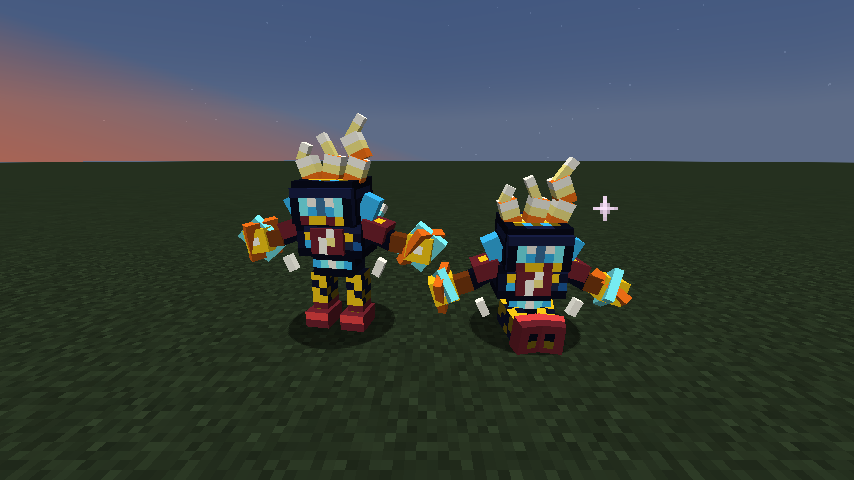
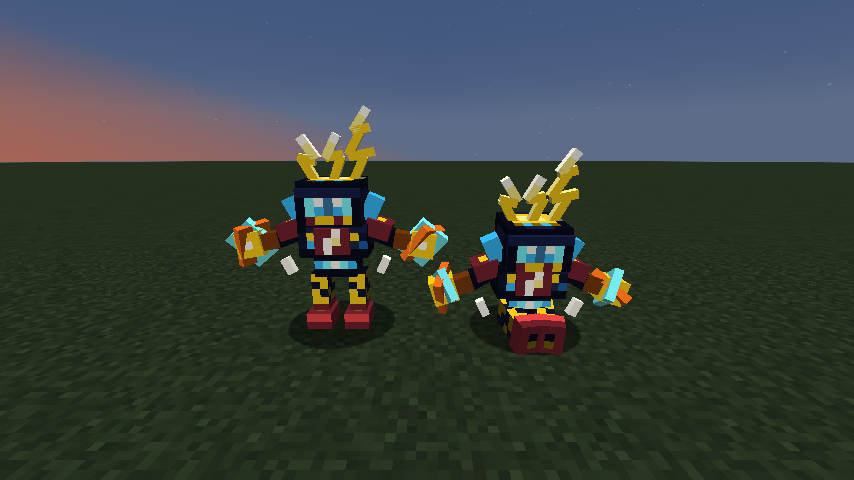
Zapkin Stage 3: replace head cones with sharp Z-kink lightning bolts

Changed region(s): [[0.274, 0.2188, 0.548, 0.6875], [0.5785, 0.3125, 0.7307, 0.4688]]

diff --git a/tools/art/make_pets_art.py b/tools/art/make_pets_art.py
@@ -2086,22 +2086,29 @@ def make_zapkin():
         box_fill(img, cu, 0, 2, 3, 2, pal["Y"], pal["C"], pal["H"])
         box_fill(glow, cu, 0, 2, 3, 2, pal["Y"], pal["C"], pal["H"])
 
-    # Three jagged lightning head spikes (glowing electric yellow -> white-hot tips!)
-    for (u, v, w, h, d, tip_col) in [
-        (0, 14, 2, 3, 2, pal["Y"]),
-        (8, 14, 1, 2, 1, pal["W"]),
-        (14, 14, 2, 3, 2, pal["Y"]),
-        (22, 14, 1, 3, 1, pal["W"]),
-        (28, 14, 2, 3, 2, pal["Y"]),
-        (36, 14, 2, 3, 2, pal["H"]),
-        (44, 14, 1, 3, 1, pal["W"]),
+    # Three sharp Z-kink lightning head bolts: blazing electric yellow + white-hot core (no orange candy-corn stripes!)
+    for (u, v, w, h, d, is_tip) in [
+        (0, 14, 1, 3, 1, False),
+        (6, 14, 2, 1, 1, False),
+        (14, 14, 1, 3, 1, True),
+        (20, 14, 1, 3, 1, False),
+        (26, 14, 2, 1, 1, False),
+        (34, 14, 1, 3, 1, True),
+        (40, 14, 1, 3, 1, False),
+        (46, 14, 3, 1, 1, False),
+        (56, 14, 1, 3, 1, False),
+        (62, 14, 2, 1, 1, False),
+        (70, 14, 1, 3, 1, True),
     ]:
         for name, (rx, ry, rw, rh) in faces(u, v, w, h, d).items():
             for px in range(rx, rx + rw):
                 for py in range(ry, ry + rh):
-                    c = pal["W"] if py == ry else (pal["O"] if (py == ry + rh - 1 and h >= 3) else pal["H"])
-                    if tip_col == pal["W"]:
-                        c = pal["W"] if py == ry else pal["H"]
+                    if is_tip and py == ry:
+                        c = pal["W"]
+                    elif name in ("front", "back"):
+                        c = pal["H"] if is_tip else pal["Y"]
+                    else:
+                        c = pal["W"] if is_tip else pal["H"]
                     put(img, px, py, c)
                     put(glow, px, py, c)
 
